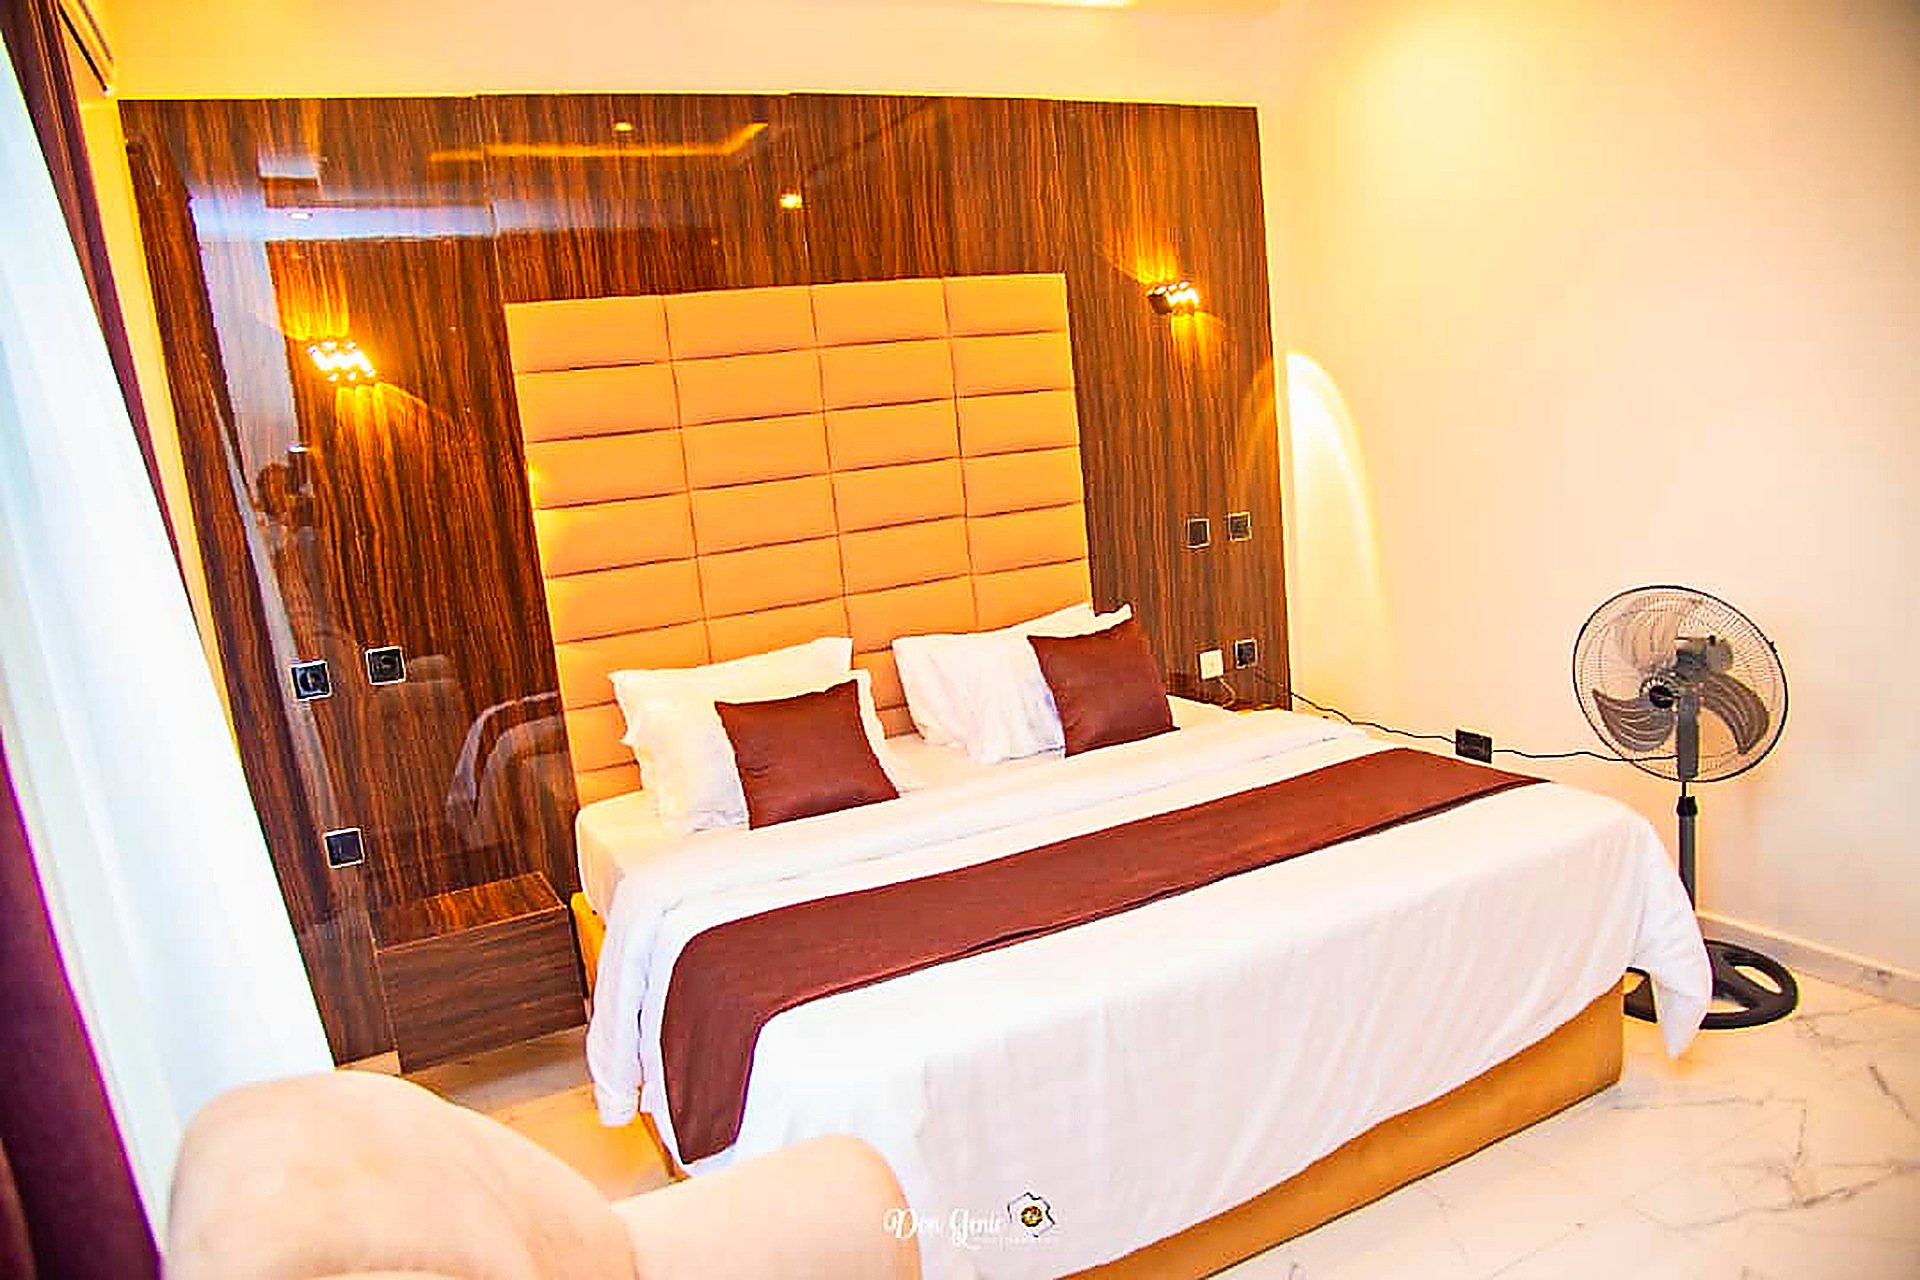
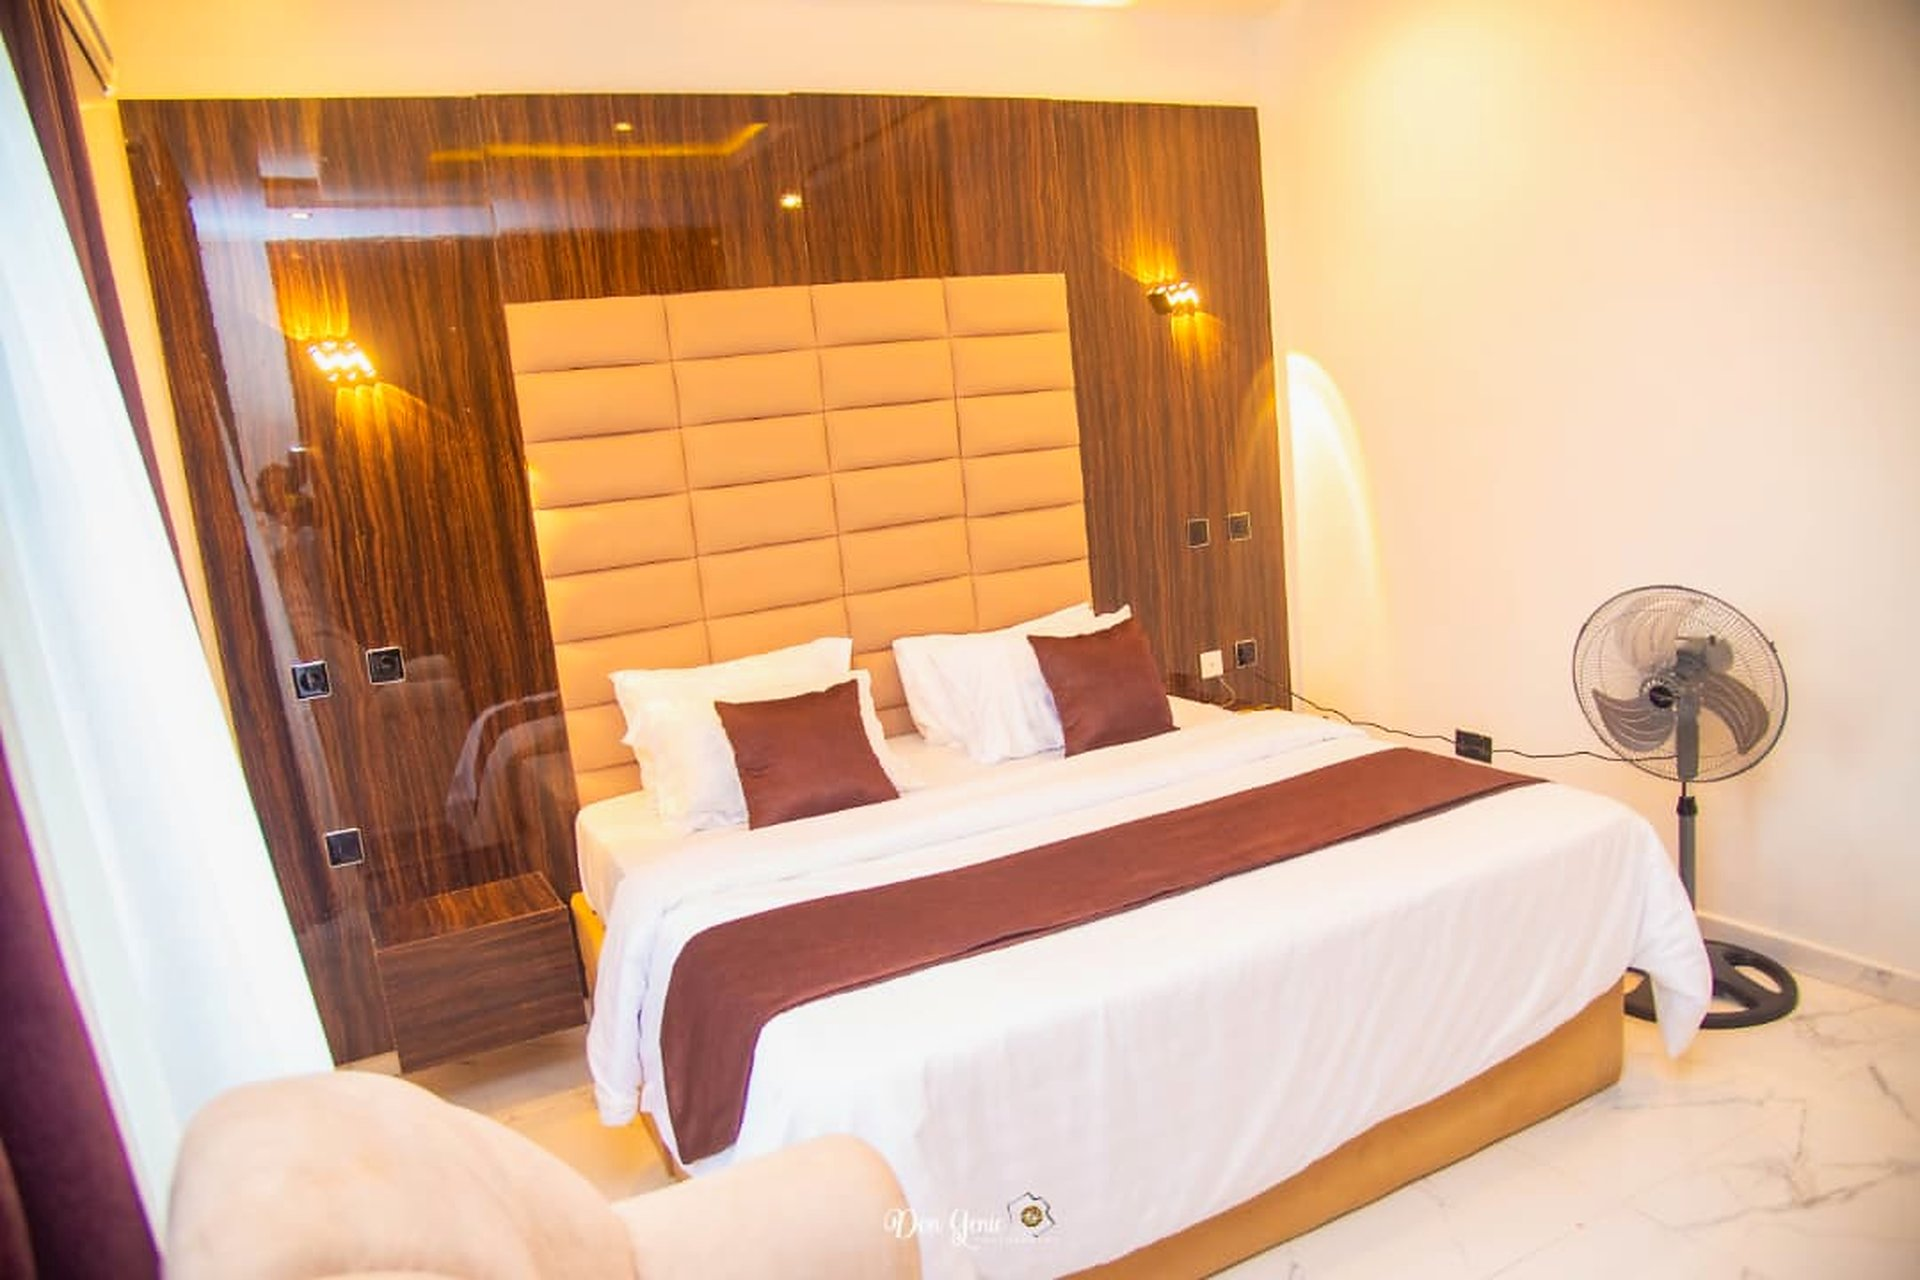
fix: refine HDR photo mastering and CSS filters for natural, realistic color and texture

diff --git a/src/components/PhotoGallerySection.jsx b/src/components/PhotoGallerySection.jsx
@@ -99,22 +99,22 @@ export default function PhotoGallerySection({
     touchStartX.current = null;
   };
 
-  // Visual Grade CSS Filter & Texture Classes
+  // Visual Grade CSS Filter & Texture Classes (Balanced for Photorealistic Clarity)
   const getPhotoFilterStyle = () => {
     if (visualGrade === 'hdr') {
       return {
-        filter: 'url(#arab-uhd-clarity) contrast(1.12) saturate(1.18) brightness(1.04)',
+        filter: 'url(#arab-uhd-clarity) contrast(1.04) saturate(1.07) brightness(1.01)',
         imageRendering: 'auto',
       };
     }
     if (visualGrade === 'uhd') {
       return {
-        filter: 'url(#arab-uhd-clarity) contrast(1.06) saturate(1.10) brightness(1.02)',
+        filter: 'url(#arab-uhd-clarity) contrast(1.02) saturate(1.03) brightness(1.01)',
         imageRendering: 'auto',
       };
     }
     return {
-      filter: 'contrast(1.02) saturate(1.04) brightness(1.01)',
+      filter: 'contrast(1.0) saturate(1.0) brightness(1.0)',
       imageRendering: 'auto',
     };
   };
@@ -125,15 +125,15 @@ export default function PhotoGallerySection({
 
   return (
     <section className="relative py-16 sm:py-24 px-4 sm:px-6 overflow-hidden bg-[#120208]">
-      {/* Hidden SVG Hardware-Accelerated Ultra-HD Unsharp Mask & Clarity Filter */}
+      {/* Hidden SVG Hardware-Accelerated Natural Unsharp Mask & Clarity Filter */}
       <svg className="hidden" aria-hidden="true">
         <defs>
           <filter id="arab-uhd-clarity" colorInterpolationFilters="sRGB">
-            {/* Hyper-Realistic Micro-Contrast & Edge Sharpness Convolution Matrix */}
+            {/* Clean, Halo-Free Micro-Contrast & Edge Sharpness Convolution Matrix */}
             <feConvolveMatrix
               order="3 3"
               preserveAlpha="true"
-              kernelMatrix="0 -0.22 0 -0.22 1.88 -0.22 0 -0.22 0"
+              kernelMatrix="0 -0.07 0 -0.07 1.28 -0.07 0 -0.07 0"
             />
           </filter>
         </defs>

diff --git a/src/App.jsx b/src/App.jsx
@@ -162,14 +162,14 @@ export default function App() {
   return (
     <div className="min-h-screen bg-[#120208] text-gray-100 font-sans selection:bg-[#d4af37] selection:text-black antialiased flex flex-col justify-between">
       
-      {/* Global Site-Wide Vivid HDR & Hyper-Realistic Sharpness Convolution Filter */}
+      {/* Global Site-Wide Natural HDR & Clean Optical Sharpness Filter */}
       <svg className="hidden" aria-hidden="true">
         <defs>
           <filter id="arab-site-vivid-hdr" colorInterpolationFilters="sRGB">
             <feConvolveMatrix
               order="3 3"
               preserveAlpha="true"
-              kernelMatrix="0 -0.18 0 -0.18 1.72 -0.18 0 -0.18 0"
+              kernelMatrix="0 -0.05 0 -0.05 1.20 -0.05 0 -0.05 0"
             />
           </filter>
         </defs>

diff --git a/src/index.css b/src/index.css
@@ -168,9 +168,9 @@ body {
   animation: shimmer 2.5s infinite;
 }
 
-/* Global Vivid HDR & Hyper-Realistic Sharpness for All Site Photography */
+/* Global Natural Vivid HDR & Crisp Optical Clarity for All Site Photography */
 img {
-  filter: url(#arab-site-vivid-hdr) contrast(1.08) saturate(1.15) brightness(1.02);
+  filter: url(#arab-site-vivid-hdr) contrast(1.02) saturate(1.04) brightness(1.01);
   image-rendering: -webkit-optimize-contrast;
   backface-visibility: hidden;
   transform: translateZ(0);
